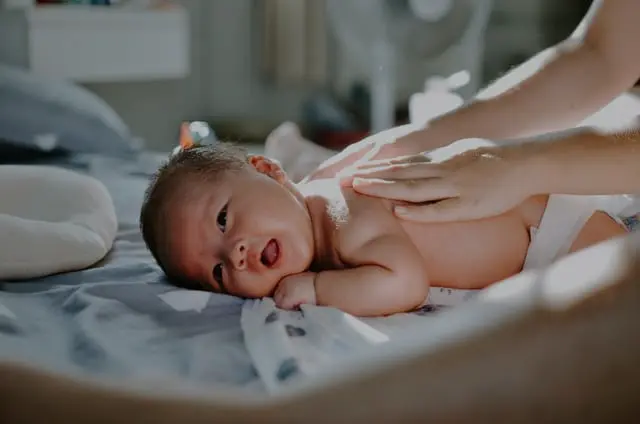
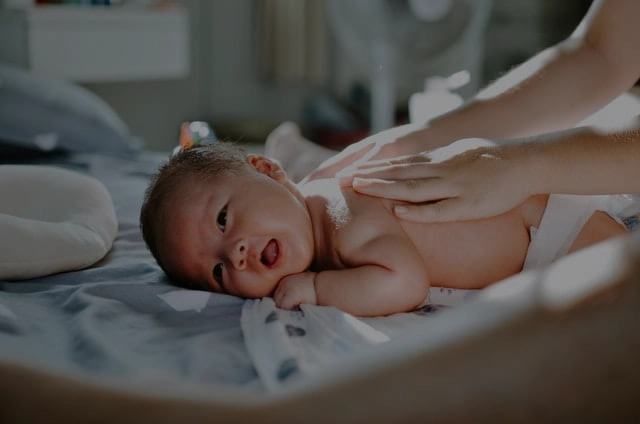
fix revisi v4

diff --git a/index.html b/index.html
@@ -303,6 +303,12 @@ The use of this herbal concoction is proof that local culture and knowledge pers
                            data-aos-mirror="false"
                            data-aos-once="false">
                               <p style="margin: 0px !important;">Uses: Provides moisture, protection and antimicrobial properties Softens skin and reduces inflammation Helps relieve flatulence and colic Soothes skin and provides a relaxing effect.</p>
+                              <ul class="pt-3 pl-3" style="list-style: disc;">
+                                 <li style="list-style: disc;">Memberikan kelembapan, Perlindungan, dan sifat antimikroba</li>
+                                 <li style="list-style: disc;">Melembutkan kulit dan mengurangi peradangan</li>
+                                 <li style="list-style: disc;">Membantu mengatasi perut kembung dan kolik</li>
+                                 <li style="list-style: disc;">Menenangkan kulit dan memberikan efek relaksasi</li>
+                              </ul>
                               <div class="item-price mt-3">Rp 14.000</div>
                               <div class="btn-wrap">
                                  <a href="https://api.whatsapp.com/send/?phone=6285737277381&text=Saya ingin membeli minyak ini&type=phone_number&app_absent=0" class="btn-accent-arrow">shop it now <i
@@ -401,7 +407,7 @@ The use of this herbal concoction is proof that local culture and knowledge pers
          data-aos-easing="ease-in"
          data-aos-mirror="false"
          data-aos-once="false">
-            <div class="col-12 col-md-6 col-xl-5" style="background-image: url(./images/coconutagain.jpg); background-repeat:no-repeat; background-size:cover;"></div>
+            <div class="col-12 col-md-6 col-xl-5" style="background-image: url(./images/imgbyi.jpeg); background-repeat:no-repeat; background-size:cover;"></div>
             <div class="col-12 col-md-6 col-xl-7 py-5">
                <div class="p-5">
                   <h1 style="font-weight: 800;" class="py-4">Take good care of your baby</h1>
